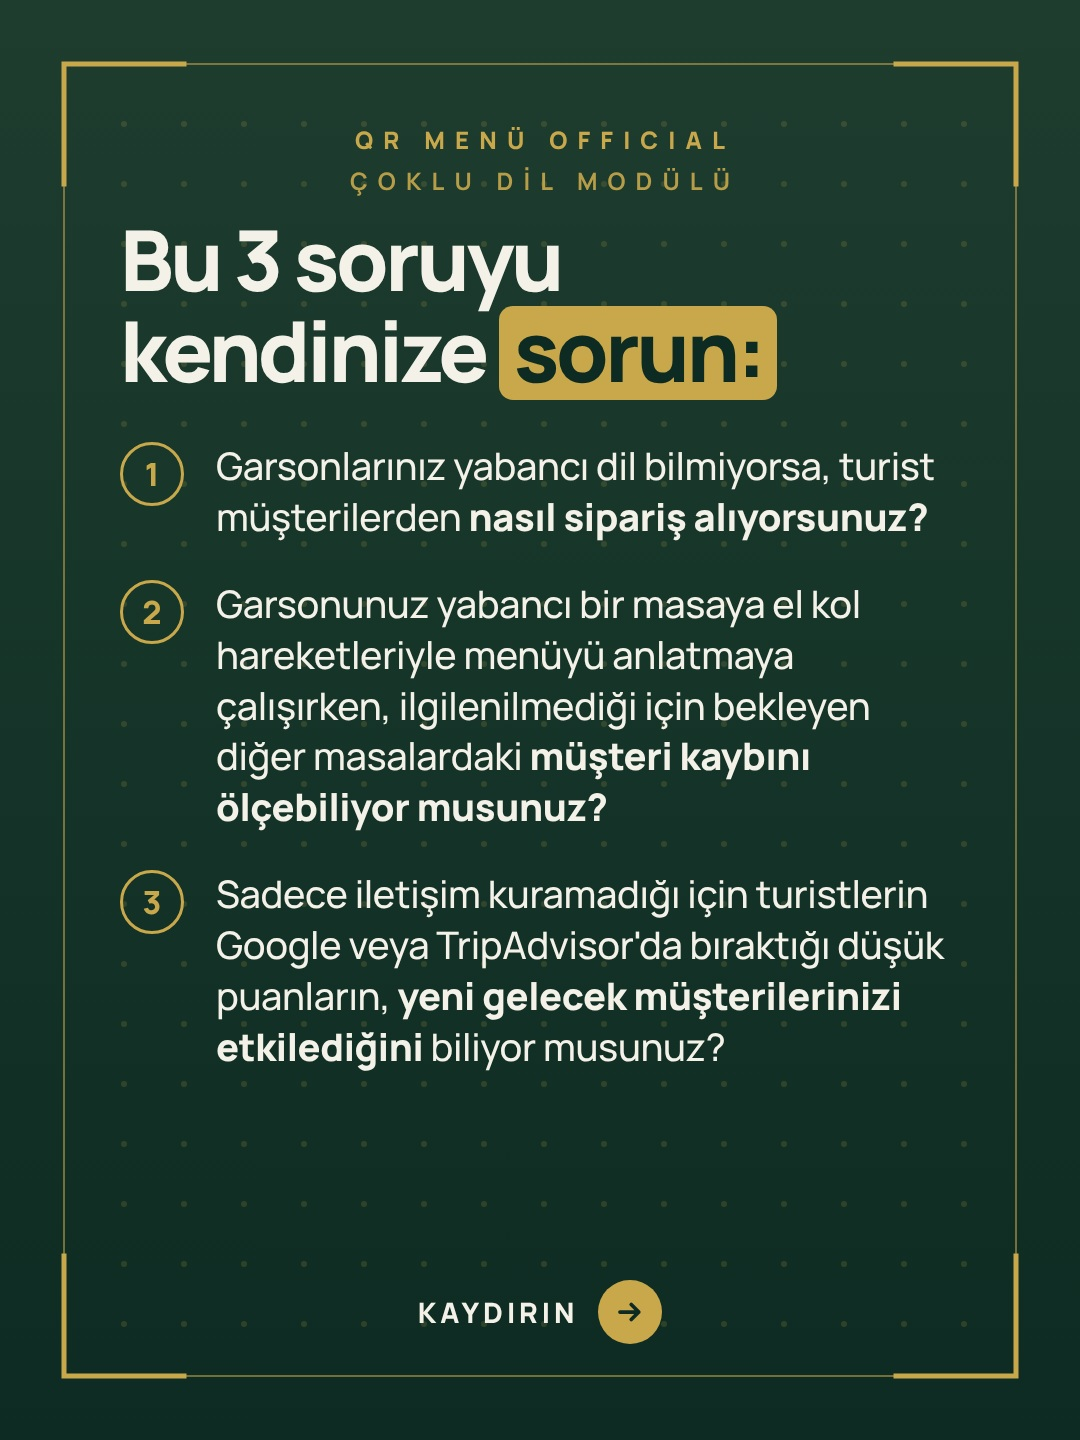
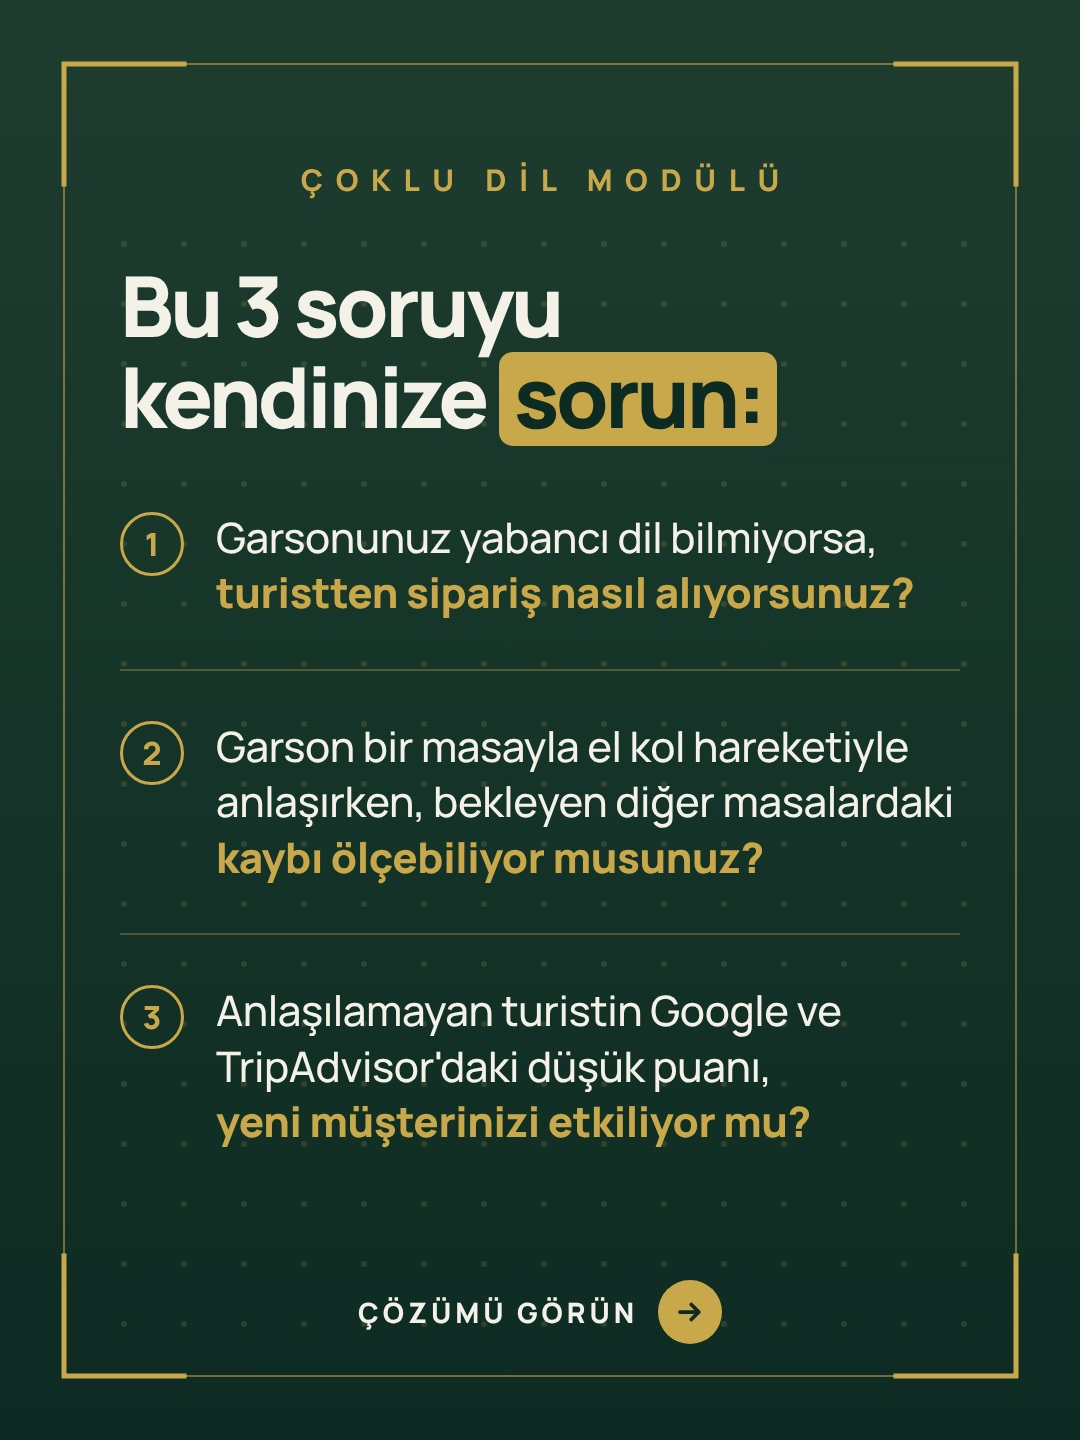
Carousel slayt 2: soru yapısı, vurgu, ayraç, CTA
Claude-Session: https://claude.ai/code/session_01FBw9rVwrniVjyFvtgVdFXq

Changed region(s): [[0.0917, 0.0938, 0.8861, 0.8125], [0.3361, 0.875, 0.6722, 0.9375], [0.7028, 0.0938, 0.7333, 0.1562]]

diff --git a/analiz/carousel-dil/carousel-v6.html b/analiz/carousel-dil/carousel-v6.html
@@ -89,6 +89,11 @@ body{background:linear-gradient(var(--y2),var(--y))!important;color:var(--off)!i
 .rg{display:none!important}.langs{display:flex;gap:14px;align-items:center;justify-content:center;margin:48px 0 44px}
 .langs{font-weight:800;font-size:32px;letter-spacing:.12em;color:var(--g);gap:14px}
 .langs em{font-style:normal;font-weight:700;font-size:30px;color:var(--off);margin-left:8px}
+.qs{gap:0!important;margin-top:64px!important}
+.q{padding:48px 0;border-top:2px solid #C9A84C55}
+.q:first-child{border-top:none;padding-top:0}
+.q .t{font-size:42px!important;line-height:1.32!important;font-weight:500}
+.q .t b{color:var(--g)}
 </style></head><body>
 <svg class="rg a" width="1080" height="1440" viewBox="0 0 1080 1440" fill="none"><g><circle cx="1200" cy="300" r="180" stroke="#0D2B22" stroke-width="3.0" opacity="0.198"/><circle cx="1200" cy="300" r="300" stroke="#0D2B22" stroke-width="2.6" opacity="0.162"/><circle cx="1200" cy="300" r="420" stroke="#0D2B22" stroke-width="2.2" opacity="0.126"/><circle cx="1200" cy="300" r="540" stroke="#0D2B22" stroke-width="2.0" opacity="0.095"/><circle cx="1200" cy="300" r="660" stroke="#0D2B22" stroke-width="1.6" opacity="0.068"/><circle cx="1200" cy="300" r="780" stroke="#0D2B22" stroke-width="1.4" opacity="0.045"/><circle cx="1200" cy="300" r="900" stroke="#0D2B22" stroke-width="1.2" opacity="0.032"/></g><g><circle cx="-120" cy="1560" r="180" stroke="#0D2B22" stroke-width="2.4" opacity="0.135"/><circle cx="-120" cy="1560" r="300" stroke="#0D2B22" stroke-width="2" opacity="0.099"/><circle cx="-120" cy="1560" r="420" stroke="#0D2B22" stroke-width="1.6" opacity="0.068"/><circle cx="-120" cy="1560" r="520" stroke="#0D2B22" stroke-width="1.3" opacity="0.045"/></g></svg> <svg class="rg z" width="1080" height="1440" viewBox="0 0 1080 1440" fill="none"><g><circle cx="1200" cy="300" r="180" stroke="#C9A84C" stroke-width="3.0" opacity="0.242"/><circle cx="1200" cy="300" r="300" stroke="#C9A84C" stroke-width="2.6" opacity="0.198"/><circle cx="1200" cy="300" r="420" stroke="#C9A84C" stroke-width="2.2" opacity="0.154"/><circle cx="1200" cy="300" r="540" stroke="#C9A84C" stroke-width="2.0" opacity="0.116"/><circle cx="1200" cy="300" r="660" stroke="#C9A84C" stroke-width="1.6" opacity="0.083"/><circle cx="1200" cy="300" r="780" stroke="#C9A84C" stroke-width="1.4" opacity="0.055"/><circle cx="1200" cy="300" r="900" stroke="#C9A84C" stroke-width="1.2" opacity="0.039"/></g><g><circle cx="-120" cy="1560" r="180" stroke="#C9A84C" stroke-width="2.4" opacity="0.165"/><circle cx="-120" cy="1560" r="300" stroke="#C9A84C" stroke-width="2" opacity="0.121"/><circle cx="-120" cy="1560" r="420" stroke="#C9A84C" stroke-width="1.6" opacity="0.083"/><circle cx="-120" cy="1560" r="520" stroke="#C9A84C" stroke-width="1.3" opacity="0.055"/></g></svg>
 <svg class="fr" width="1080" height="1440" viewBox="0 0 1080 1440" fill="none" stroke="#C9A84C" stroke-linecap="square"><rect x="64" y="64" width="952" height="1312" stroke-width="2" opacity=".55"/><g stroke-width="5"><path d="M64 184V64h120M896 64h120v120M1016 1256v120H896M184 1376H64V1256"/></g></svg><svg style="position:absolute;inset:0;z-index:0" width="1080" height="1440" fill="#C9A84C" opacity=".17"><circle cx="124" cy="244" r="3"/><circle cx="124" cy="304" r="3"/><circle cx="124" cy="364" r="3"/><circle cx="124" cy="424" r="3"/><circle cx="124" cy="484" r="3"/><circle cx="124" cy="544" r="3"/><circle cx="124" cy="604" r="3"/><circle cx="124" cy="664" r="3"/><circle cx="124" cy="724" r="3"/><circle cx="124" cy="784" r="3"/><circle cx="124" cy="844" r="3"/><circle cx="124" cy="904" r="3"/><circle cx="124" cy="964" r="3"/><circle cx="124" cy="1024" r="3"/><circle cx="124" cy="1084" r="3"/><circle cx="124" cy="1144" r="3"/><circle cx="124" cy="1204" r="3"/><circle cx="124" cy="1264" r="3"/><circle cx="124" cy="1324" r="3"/><circle cx="184" cy="244" r="3"/><circle cx="184" cy="304" r="3"/><circle cx="184" cy="364" r="3"/><circle cx="184" cy="424" r="3"/><circle cx="184" cy="484" r="3"/><circle cx="184" cy="544" r="3"/><circle cx="184" cy="604" r="3"/><circle cx="184" cy="664" r="3"/><circle cx="184" cy="724" r="3"/><circle cx="184" cy="784" r="3"/><circle cx="184" cy="844" r="3"/><circle cx="184" cy="904" r="3"/><circle cx="184" cy="964" r="3"/><circle cx="184" cy="1024" r="3"/><circle cx="184" cy="1084" r="3"/><circle cx="184" cy="1144" r="3"/><circle cx="184" cy="1204" r="3"/><circle cx="184" cy="1264" r="3"/><circle cx="184" cy="1324" r="3"/><circle cx="244" cy="244" r="3"/><circle cx="244" cy="304" r="3"/><circle cx="244" cy="364" r="3"/><circle cx="244" cy="424" r="3"/><circle cx="244" cy="484" r="3"/><circle cx="244" cy="544" r="3"/><circle cx="244" cy="604" r="3"/><circle cx="244" cy="664" r="3"/><circle cx="244" cy="724" r="3"/><circle cx="244" cy="784" r="3"/><circle cx="244" cy="844" r="3"/><circle cx="244" cy="904" r="3"/><circle cx="244" cy="964" r="3"/><circle cx="244" cy="1024" r="3"/><circle cx="244" cy="1084" r="3"/><circle cx="244" cy="1144" r="3"/><circle cx="244" cy="1204" r="3"/><circle cx="244" cy="1264" r="3"/><circle cx="244" cy="1324" r="3"/><circle cx="304" cy="244" r="3"/><circle cx="304" cy="304" r="3"/><circle cx="304" cy="364" r="3"/><circle cx="304" cy="424" r="3"/><circle cx="304" cy="484" r="3"/><circle cx="304" cy="544" r="3"/><circle cx="304" cy="604" r="3"/><circle cx="304" cy="664" r="3"/><circle cx="304" cy="724" r="3"/><circle cx="304" cy="784" r="3"/><circle cx="304" cy="844" r="3"/><circle cx="304" cy="904" r="3"/><circle cx="304" cy="964" r="3"/><circle cx="304" cy="1024" r="3"/><circle cx="304" cy="1084" r="3"/><circle cx="304" cy="1144" r="3"/><circle cx="304" cy="1204" r="3"/><circle cx="304" cy="1264" r="3"/><circle cx="304" cy="1324" r="3"/><circle cx="364" cy="244" r="3"/><circle cx="364" cy="304" r="3"/><circle cx="364" cy="364" r="3"/><circle cx="364" cy="424" r="3"/><circle cx="364" cy="484" r="3"/><circle cx="364" cy="544" r="3"/><circle cx="364" cy="604" r="3"/><circle cx="364" cy="664" r="3"/><circle cx="364" cy="724" r="3"/><circle cx="364" cy="784" r="3"/><circle cx="364" cy="844" r="3"/><circle cx="364" cy="904" r="3"/><circle cx="364" cy="964" r="3"/><circle cx="364" cy="1024" r="3"/><circle cx="364" cy="1084" r="3"/><circle cx="364" cy="1144" r="3"/><circle cx="364" cy="1204" r="3"/><circle cx="364" cy="1264" r="3"/><circle cx="364" cy="1324" r="3"/><circle cx="424" cy="244" r="3"/><circle cx="424" cy="304" r="3"/><circle cx="424" cy="364" r="3"/><circle cx="424" cy="424" r="3"/><circle cx="424" cy="484" r="3"/><circle cx="424" cy="544" r="3"/><circle cx="424" cy="604" r="3"/><circle cx="424" cy="664" r="3"/><circle cx="424" cy="724" r="3"/><circle cx="424" cy="784" r="3"/><circle cx="424" cy="844" r="3"/><circle cx="424" cy="904" r="3"/><circle cx="424" cy="964" r="3"/><circle cx="424" cy="1024" r="3"/><circle cx="424" cy="1084" r="3"/><circle cx="424" cy="1144" r="3"/><circle cx="424" cy="1204" r="3"/><circle cx="424" cy="1264" r="3"/><circle cx="424" cy="1324" r="3"/><circle cx="484" cy="244" r="3"/><circle cx="484" cy="304" r="3"/><circle cx="484" cy="364" r="3"/><circle cx="484" cy="424" r="3"/><circle cx="484" cy="484" r="3"/><circle cx="484" cy="544" r="3"/><circle cx="484" cy="604" r="3"/><circle cx="484" cy="664" r="3"/><circle cx="484" cy="724" r="3"/><circle cx="484" cy="784" r="3"/><circle cx="484" cy="844" r="3"/><circle cx="484" cy="904" r="3"/><circle cx="484" cy="964" r="3"/><circle cx="484" cy="1024" r="3"/><circle cx="484" cy="1084" r="3"/><circle cx="484" cy="1144" r="3"/><circle cx="484" cy="1204" r="3"/><circle cx="484" cy="1264" r="3"/><circle cx="484" cy="1324" r="3"/><circle cx="544" cy="244" r="3"/><circle cx="544" cy="304" r="3"/><circle cx="544" cy="364" r="3"/><circle cx="544" cy="424" r="3"/><circle cx="544" cy="484" r="3"/><circle cx="544" cy="544" r="3"/><circle cx="544" cy="604" r="3"/><circle cx="544" cy="664" r="3"/><circle cx="544" cy="724" r="3"/><circle cx="544" cy="784" r="3"/><circle cx="544" cy="844" r="3"/><circle cx="544" cy="904" r="3"/><circle cx="544" cy="964" r="3"/><circle cx="544" cy="1024" r="3"/><circle cx="544" cy="1084" r="3"/><circle cx="544" cy="1144" r="3"/><circle cx="544" cy="1204" r="3"/><circle cx="544" cy="1264" r="3"/><circle cx="544" cy="1324" r="3"/><circle cx="604" cy="244" r="3"/><circle cx="604" cy="304" r="3"/><circle cx="604" cy="364" r="3"/><circle cx="604" cy="424" r="3"/><circle cx="604" cy="484" r="3"/><circle cx="604" cy="544" r="3"/><circle cx="604" cy="604" r="3"/><circle cx="604" cy="664" r="3"/><circle cx="604" cy="724" r="3"/><circle cx="604" cy="784" r="3"/><circle cx="604" cy="844" r="3"/><circle cx="604" cy="904" r="3"/><circle cx="604" cy="964" r="3"/><circle cx="604" cy="1024" r="3"/><circle cx="604" cy="1084" r="3"/><circle cx="604" cy="1144" r="3"/><circle cx="604" cy="1204" r="3"/><circle cx="604" cy="1264" r="3"/><circle cx="604" cy="1324" r="3"/><circle cx="664" cy="244" r="3"/><circle cx="664" cy="304" r="3"/><circle cx="664" cy="364" r="3"/><circle cx="664" cy="424" r="3"/><circle cx="664" cy="484" r="3"/><circle cx="664" cy="544" r="3"/><circle cx="664" cy="604" r="3"/><circle cx="664" cy="664" r="3"/><circle cx="664" cy="724" r="3"/><circle cx="664" cy="784" r="3"/><circle cx="664" cy="844" r="3"/><circle cx="664" cy="904" r="3"/><circle cx="664" cy="964" r="3"/><circle cx="664" cy="1024" r="3"/><circle cx="664" cy="1084" r="3"/><circle cx="664" cy="1144" r="3"/><circle cx="664" cy="1204" r="3"/><circle cx="664" cy="1264" r="3"/><circle cx="664" cy="1324" r="3"/><circle cx="724" cy="244" r="3"/><circle cx="724" cy="304" r="3"/><circle cx="724" cy="364" r="3"/><circle cx="724" cy="424" r="3"/><circle cx="724" cy="484" r="3"/><circle cx="724" cy="544" r="3"/><circle cx="724" cy="604" r="3"/><circle cx="724" cy="664" r="3"/><circle cx="724" cy="724" r="3"/><circle cx="724" cy="784" r="3"/><circle cx="724" cy="844" r="3"/><circle cx="724" cy="904" r="3"/><circle cx="724" cy="964" r="3"/><circle cx="724" cy="1024" r="3"/><circle cx="724" cy="1084" r="3"/><circle cx="724" cy="1144" r="3"/><circle cx="724" cy="1204" r="3"/><circle cx="724" cy="1264" r="3"/><circle cx="724" cy="1324" r="3"/><circle cx="784" cy="244" r="3"/><circle cx="784" cy="304" r="3"/><circle cx="784" cy="364" r="3"/><circle cx="784" cy="424" r="3"/><circle cx="784" cy="484" r="3"/><circle cx="784" cy="544" r="3"/><circle cx="784" cy="604" r="3"/><circle cx="784" cy="664" r="3"/><circle cx="784" cy="724" r="3"/><circle cx="784" cy="784" r="3"/><circle cx="784" cy="844" r="3"/><circle cx="784" cy="904" r="3"/><circle cx="784" cy="964" r="3"/><circle cx="784" cy="1024" r="3"/><circle cx="784" cy="1084" r="3"/><circle cx="784" cy="1144" r="3"/><circle cx="784" cy="1204" r="3"/><circle cx="784" cy="1264" r="3"/><circle cx="784" cy="1324" r="3"/><circle cx="844" cy="244" r="3"/><circle cx="844" cy="304" r="3"/><circle cx="844" cy="364" r="3"/><circle cx="844" cy="424" r="3"/><circle cx="844" cy="484" r="3"/><circle cx="844" cy="544" r="3"/><circle cx="844" cy="604" r="3"/><circle cx="844" cy="664" r="3"/><circle cx="844" cy="724" r="3"/><circle cx="844" cy="784" r="3"/><circle cx="844" cy="844" r="3"/><circle cx="844" cy="904" r="3"/><circle cx="844" cy="964" r="3"/><circle cx="844" cy="1024" r="3"/><circle cx="844" cy="1084" r="3"/><circle cx="844" cy="1144" r="3"/><circle cx="844" cy="1204" r="3"/><circle cx="844" cy="1264" r="3"/><circle cx="844" cy="1324" r="3"/><circle cx="904" cy="244" r="3"/><circle cx="904" cy="304" r="3"/><circle cx="904" cy="364" r="3"/><circle cx="904" cy="424" r="3"/><circle cx="904" cy="484" r="3"/><circle cx="904" cy="544" r="3"/><circle cx="904" cy="604" r="3"/><circle cx="904" cy="664" r="3"/><circle cx="904" cy="724" r="3"/><circle cx="904" cy="784" r="3"/><circle cx="904" cy="844" r="3"/><circle cx="904" cy="904" r="3"/><circle cx="904" cy="964" r="3"/><circle cx="904" cy="1024" r="3"/><circle cx="904" cy="1084" r="3"/><circle cx="904" cy="1144" r="3"/><circle cx="904" cy="1204" r="3"/><circle cx="904" cy="1264" r="3"/><circle cx="904" cy="1324" r="3"/><circle cx="964" cy="244" r="3"/><circle cx="964" cy="304" r="3"/><circle cx="964" cy="364" r="3"/><circle cx="964" cy="424" r="3"/><circle cx="964" cy="484" r="3"/><circle cx="964" cy="544" r="3"/><circle cx="964" cy="604" r="3"/><circle cx="964" cy="664" r="3"/><circle cx="964" cy="724" r="3"/><circle cx="964" cy="784" r="3"/><circle cx="964" cy="844" r="3"/><circle cx="964" cy="904" r="3"/><circle cx="964" cy="964" r="3"/><circle cx="964" cy="1024" r="3"/><circle cx="964" cy="1084" r="3"/><circle cx="964" cy="1144" r="3"/><circle cx="964" cy="1204" r="3"/><circle cx="964" cy="1264" r="3"/><circle cx="964" cy="1324" r="3"/></svg><div class="s" id="S"></div>
@@ -119,13 +124,13 @@ const SL={
  <div class="langs">TR · EN · DE · FR · RU · AR <em>+20 dil</em></div>
  <div class="p" id="P" data-max="42" data-min="36">${L(['Menü ve sipariş,','müşterinin kendi dilinde.'])}</div></div>
  ${nx('Neden? Kaydırın','#F4F1E8').replace('class="nx"','class="nx" style="bottom:232px"')}<div class="logo">${LG()}</div>`},
-2:{bg:'krem',html:()=>`<div class="lab">${MOD}</div>
- <div class="area top"><div class="h" id="H" data-max="84" data-min="64">${L(['Bu 3 soruyu','kendinize [[sorun:]]'])}</div>
+2:{bg:'krem',html:()=>`<div class="lab" style="font-size:30px;padding-top:34px">ÇOKLU DİL MODÜLÜ</div>
+ <div class="area top" style="top:236px;bottom:240px"><div class="h" id="H" data-max="84" data-min="68">${L(['Bu 3 soruyu','kendinize [[sorun:]]'])}</div>
  <div class="qs">
-  <div class="q"><div class="n">1</div><div class="t">${B(`Garsonlarınız yabancı dil bilmiyorsa, turist müşterilerden {{nasıl sipariş alıyorsunuz?}}`)}</div></div>
-  <div class="q"><div class="n">2</div><div class="t">${B(`Garsonunuz yabancı bir masaya el kol hareketleriyle menüyü anlatmaya çalışırken, ilgilenilmediği için bekleyen diğer masalardaki {{müşteri kaybını ölçebiliyor musunuz?}}`)}</div></div>
-  <div class="q"><div class="n">3</div><div class="t">${B(`Sadece iletişim kuramadığı için turistlerin Google veya TripAdvisor'da bıraktığı düşük puanların, {{yeni gelecek müşterilerinizi etkilediğini}} biliyor musunuz?`)}</div></div>
- </div></div>${nx('Kaydırın','#F4F1E8')}`},
+  <div class="q"><div class="n">1</div><div class="t">${B(`Garsonunuz yabancı dil bilmiyorsa, {{turistten sipariş nasıl alıyorsunuz?}}`)}</div></div>
+  <div class="q"><div class="n">2</div><div class="t">${B(`Garson bir masayla el kol hareketiyle anlaşırken, bekleyen diğer masalardaki {{kaybı ölçebiliyor musunuz?}}`)}</div></div>
+  <div class="q"><div class="n">3</div><div class="t">${B(`Anlaşılamayan turistin Google ve TripAdvisor'daki düşük puanı,<br>{{yeni müşterinizi etkiliyor mu?}}`)}</div></div>
+ </div></div>${nx('Çözümü görün','#F4F1E8')}`},
 3:{bg:'krem',html:()=>`<div class="lab">${MOD}</div>
  <div class="area c"><div class="p" id="P" data-max="54" data-min="44">${L(["Türkiye'de en çok talep gören","[[20'den fazla dili]]","QR menümüze entegre ettik."])}</div>
  <div class="rule" style="margin:56px 0"></div>
